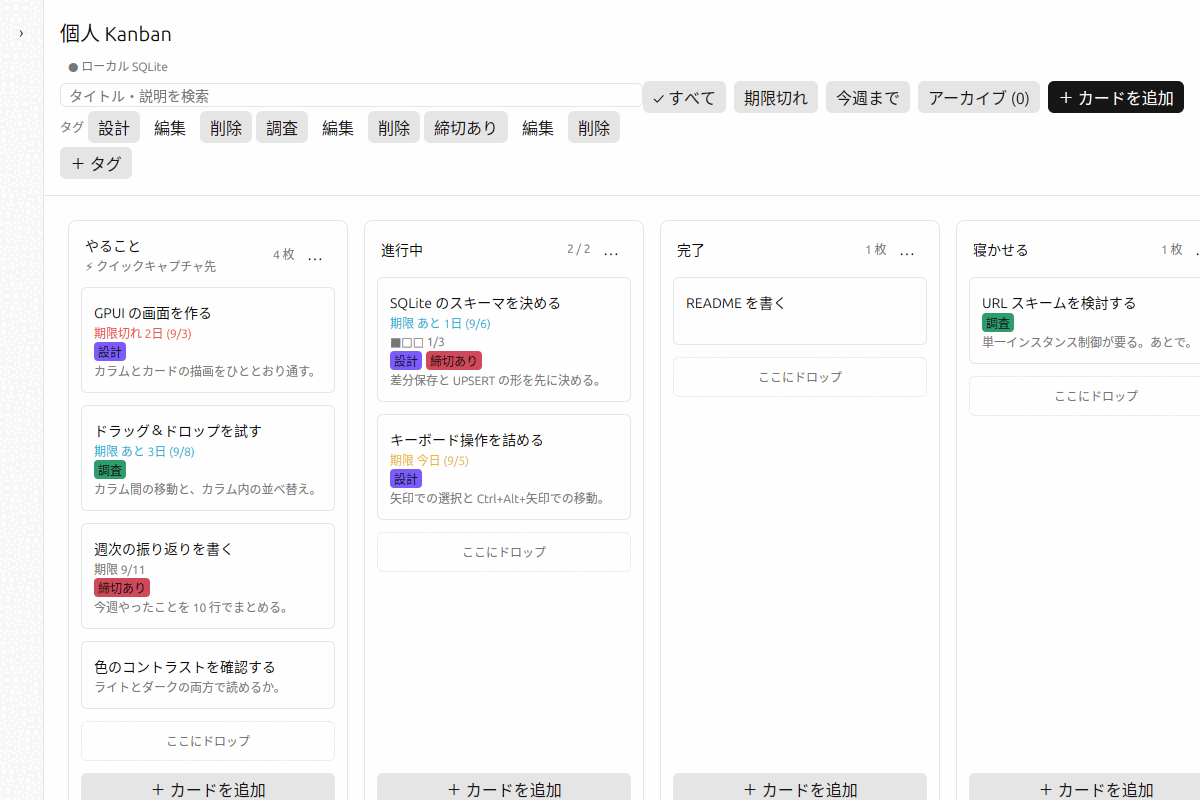
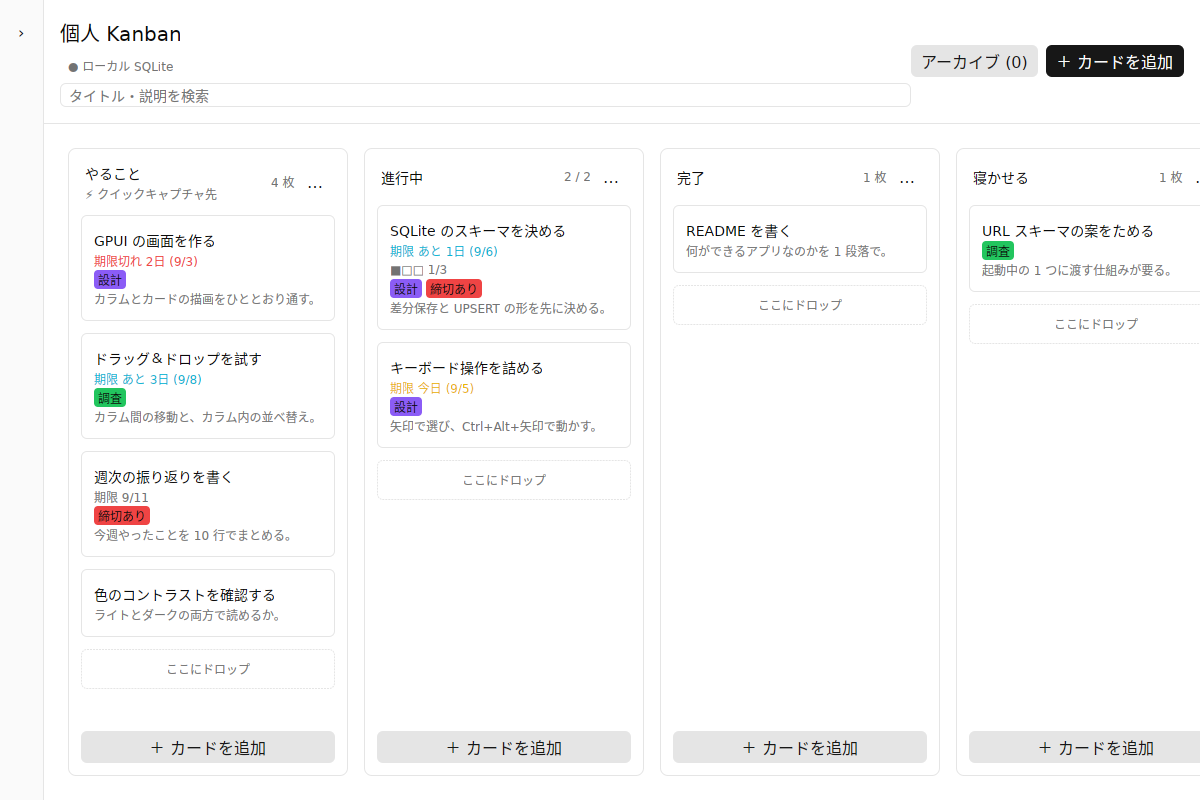
Retake the manual screenshots and show the card panel
Every screenshot in the manual still had the header that #33 and #34 took
apart: the three due-date filter buttons and the tag bar that used to sit
under the search box. #34 said so in its own message and left the retaking
undone, so the manual has been describing a header the app no longer draws.

The board data is rebuilt from the same sample as before, so the diff is the
interface changing rather than the content moving around. Two card
descriptions are a few characters shorter because they now wrap onto a
second line and left a lone "。" hanging there.

Section 4 gains a picture of the detail panel, which was the one screen the
manual described without showing. Photographing it exposed three things the
text had wrong or missing: cards open on a single click and have since #16
(the manual has always said double-click), the due date has 今日 / 明日 /
今週末 / 来週 / クリア buttons beside the text field, and checklist items
can be reordered. The note about what happens to unsaved edits when you
click the next card is there because the panel makes that question obvious.

Claude-Session: https://claude.ai/code/session_01BADciw8HurBZSG52mYAq2s

diff --git a/docs/MANUAL.md b/docs/MANUAL.md
@@ -85,17 +85,25 @@ EKANBAN_DATABASE=/tmp/試し.sqlite3 make run
 
 - カラムの下にある「+ カードを追加」で、そのカラムに足します
 - ヘッダ右の「+ カードを追加」または `Cmd+N` / `Ctrl+N` でも足せます
-- カードをダブルクリック、または選んで `Enter` で編集を開きます
+- カードを押す、または選んで `Enter` で編集を開きます
 
-編集は**右側のパネル**で開きます。編集できるのは次の項目です。
+編集は**右側のパネル**で開きます。
+
+![カードを編集しているところ](images/card-edit.png)
+
+パネルの上には、そのカードが今どのカラムにあるかと番号が出ます。`⋮` はコピー・アーカイブ・削除、`✕` は閉じるです。
+
+編集できるのは次の項目です。
 
 - タイトル
 - 説明（プレーンテキストです。Markdown は描画しません）
-- 期限（`YYYY-MM-DD`。**日付だけで、時刻は持ちません**）
-- タグの付け外し
-- チェックリスト（項目の追加、チェック、削除）
+- 期限（`YYYY-MM-DD`。**日付だけで、時刻は持ちません**）。「今日」「明日」「今週末」「来週」で埋められ、「クリア」で期限なしに戻ります
+- タグの付け外し。付いているタグには `✓` が付きます
+- チェックリスト（項目の追加、チェック、`↑` `↓` での並べ替え、削除）
 
-保存は「保存」ボタンか `Cmd+S` / `Ctrl+S`、取り消しは `Escape` です。
+保存は「保存」ボタンか `Cmd+S` / `Ctrl+S`、取り消しは「キャンセル」か `Escape` です。
+
+編集したまま別のカードを押したときは、黙って捨てずに先に保存します。タイトルが空だったり期限の書式が違ったりして保存できないときは、切り替わらずその場に留まります。
 
 ### カードの右クリックメニュー
 
